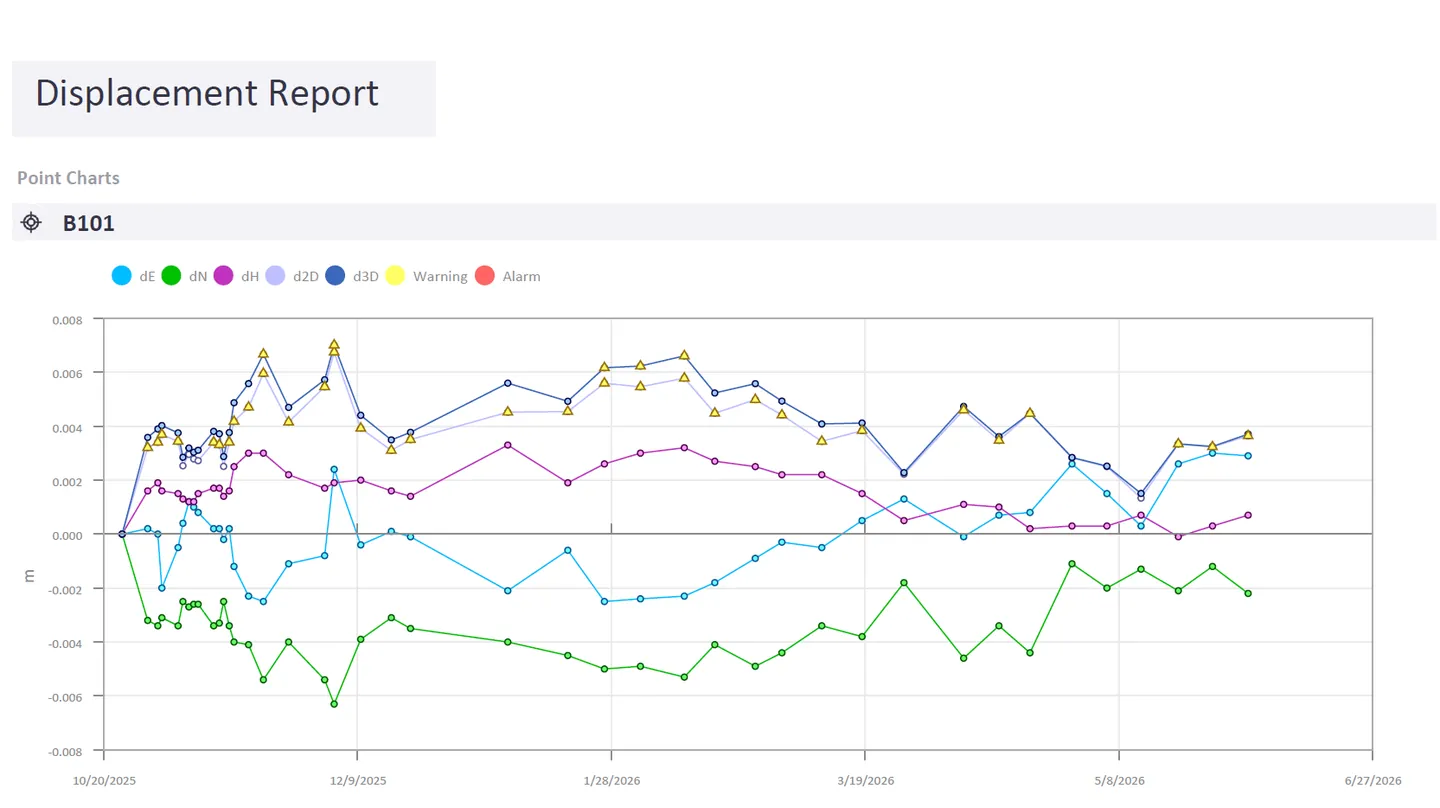
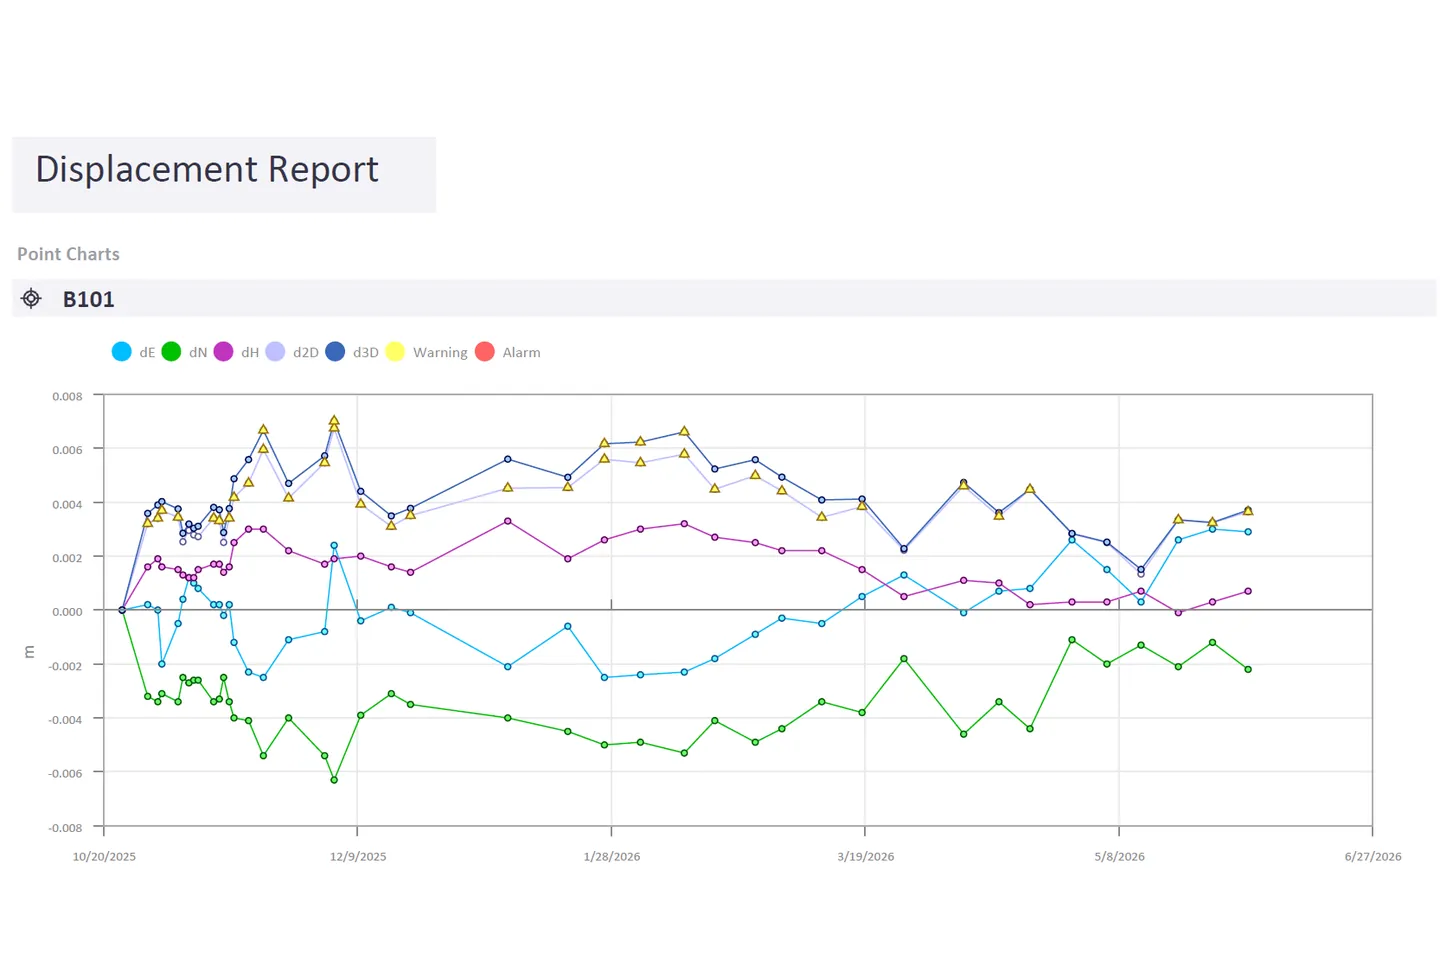
Tjenester: naprawa kadru Setningsmaling (pelny wykres, bez przyciecia) + zamiana kolejnosci Spormaling<->Setningsmaling
- Setningsmaling to wykres (Displacement Report) - dopelniony bialymi pasami
  do 3:2, zeby object-fit:cover nie ucinal tytulu/osi/legendy/dat
- Zamieniono kolejnosc Spormaling i Setningsmaling (pozycje 04<->07) na stronie
  glownej (index.html) i podstronie Tjenester (data.jsx); numeracja 01-08 zachowana

diff --git a/data.jsx b/data.jsx
@@ -21,10 +21,10 @@ const SERVICES = [
     desc: "Digital terrengmodeller for prosjektering, masseberegning og internkontroll.",
   },
   {
-    n: "04", slug: "spormaling", icon: "rail",
-    name: "Spormåling",
-    slogan: ["Med presisjon", "på rett spor"],
-    desc: "Innmåling og kontroll av jernbanespor med beliggenhet helt ned til millimeternivå.",
+    n: "04", slug: "setningsmaling", icon: "settle",
+    name: "Setningsmåling",
+    slogan: ["Vi ser det", "før det skjer"],
+    desc: "Periodisk monitorering av setninger som varsler bevegelse før den blir et problem.",
   },
   {
     n: "05", slug: "laserskanning", icon: "laser",
@@ -39,10 +39,10 @@ const SERVICES = [
     desc: "Komplette sluttdokumentasjon, ferdig bearbeidet og klart for innsending og rapportering.",
   },
   {
-    n: "07", slug: "setningsmaling", icon: "settle",
-    name: "Setningsmåling",
-    slogan: ["Vi ser det", "før det skjer"],
-    desc: "Periodisk monitorering av setninger som varsler bevegelse før den blir et problem.",
+    n: "07", slug: "spormaling", icon: "rail",
+    name: "Spormåling",
+    slogan: ["Med presisjon", "på rett spor"],
+    desc: "Innmåling og kontroll av jernbanespor med beliggenhet helt ned til millimeternivå.",
   },
   {
     n: "08", slug: "batymetri", icon: "boat",

diff --git a/index.html b/index.html
@@ -335,10 +335,10 @@ const SERVICES = [
   { n:"01", slug:"bygg-anlegg",   icon:"road",    name:"Bygg og anlegg",  slogan:["Riktig plass","i hvert stikk"],           desc:"Utstikking og innmåling for bygg og anlegg, slik at hvert punkt havner presist der det skal." },
   { n:"02", slug:"grunnlagsnett", icon:"net",     name:"Grunnlagsnett",   slogan:["Nøyaktig fra","første til siste punkt"],  desc:"Etablering og kontroll av grunnlagsnett, knyttet opp mot det offisielle landsnettet." },
   { n:"03", slug:"terrengmodell", icon:"contour", name:"Terrengmodell",   slogan:["Vi former","terrenget digitalt"],         desc:"Digital terrengmodeller for prosjektering, masseberegning og internkontroll." },
-  { n:"04", slug:"spormaling",    icon:"rail",    name:"Spormåling",      slogan:["Med presisjon","på rett spor"],          desc:"Innmåling og kontroll av jernbanespor med beliggenhet helt ned til millimeternivå." },
+  { n:"04", slug:"setningsmaling",icon:"settle",  name:"Setningsmåling",  slogan:["Vi ser det","før det skjer"],            desc:"Periodisk monitorering av setninger som varsler bevegelse før den blir et problem." },
   { n:"05", slug:"laserskanning", icon:"laser",   name:"Laserskanning",   slogan:["Se alt","fanget i 3D"],                  desc:"Laserskanning og fotogrammetri som fanger hele anlegget som en målbar 3D-modell." },
   { n:"06", slug:"malebrev",      icon:"doc",     name:"Målebrev",        slogan:["Du tjener mens","vi beregner"],          desc:"Komplette sluttdokumentasjon, ferdig bearbeidet og klart for innsending og rapportering." },
-  { n:"07", slug:"setningsmaling",icon:"settle",  name:"Setningsmåling",  slogan:["Vi ser det","før det skjer"],            desc:"Periodisk monitorering av setninger som varsler bevegelse før den blir et problem." },
+  { n:"07", slug:"spormaling",    icon:"rail",    name:"Spormåling",      slogan:["Med presisjon","på rett spor"],          desc:"Innmåling og kontroll av jernbanespor med beliggenhet helt ned til millimeternivå." },
   { n:"08", slug:"batymetri",     icon:"boat",    name:"Batymetri",       slogan:["Vi kartlegger","det usynlige"],          desc:"Oppmåling av sjøbunn, havn og vassdrag med ekkolodd og presis GNSS-posisjonering." },
 ];
 